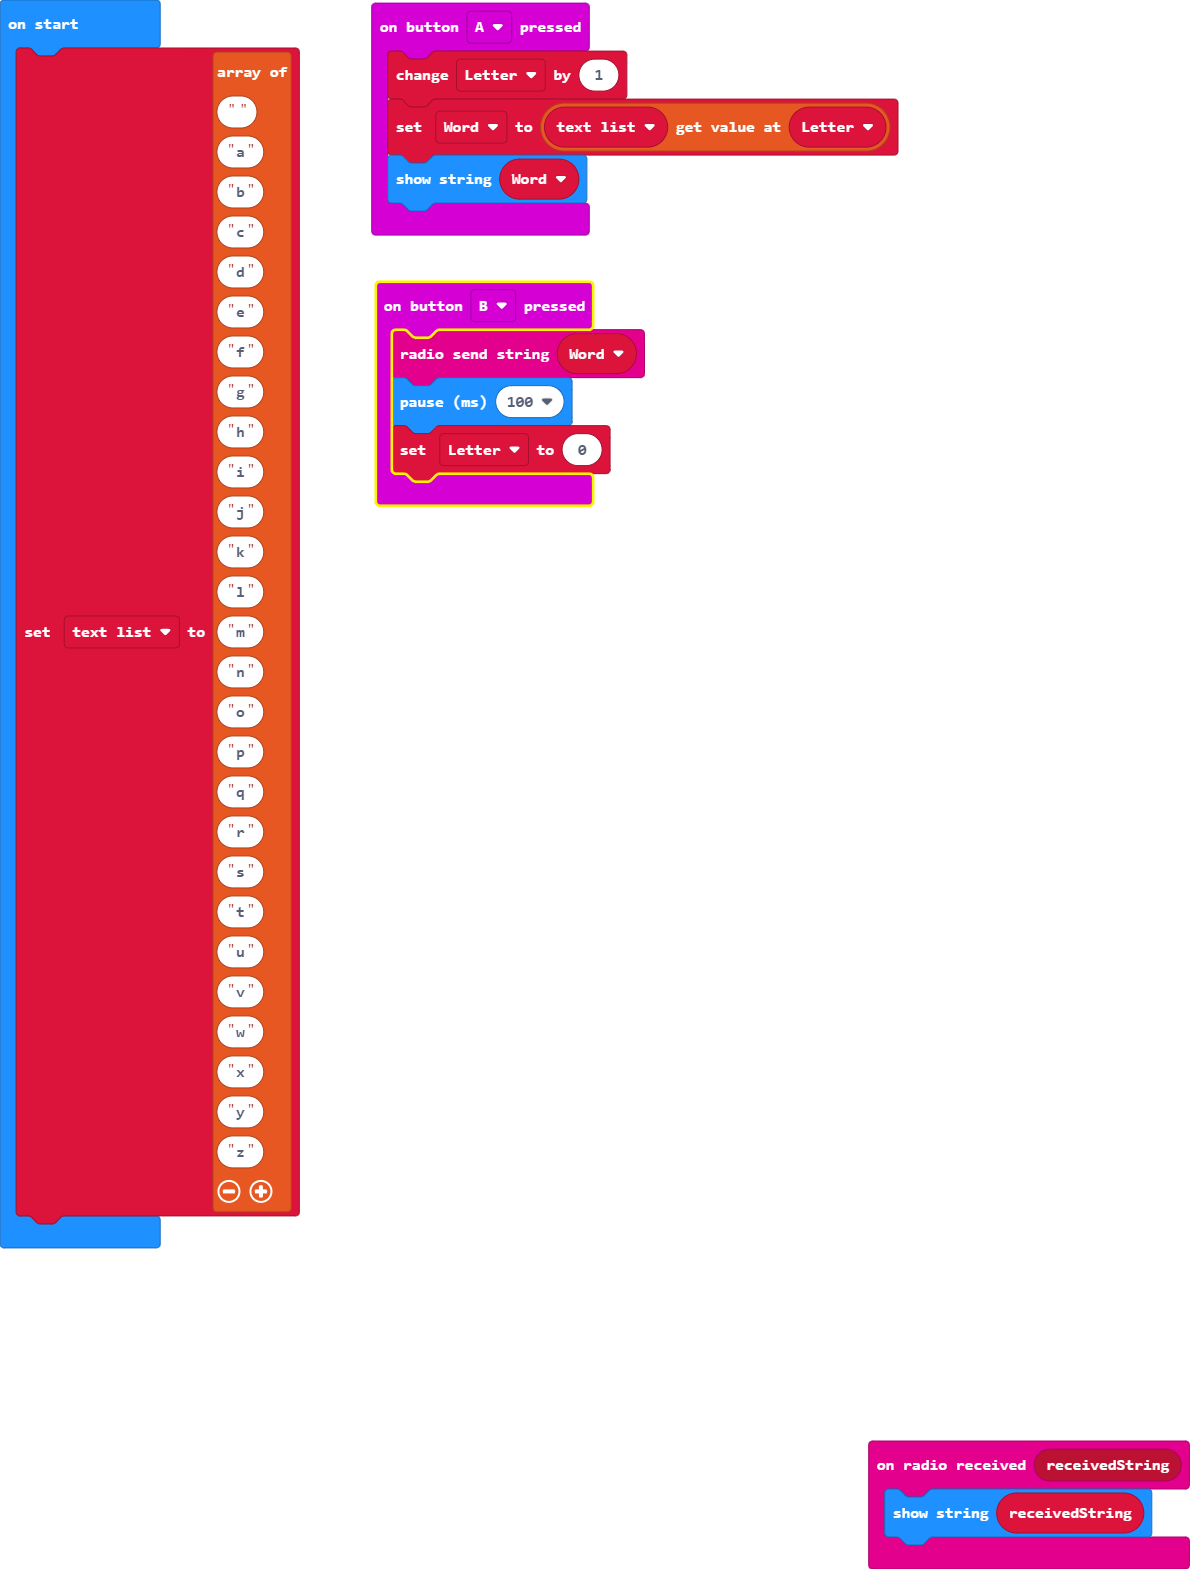
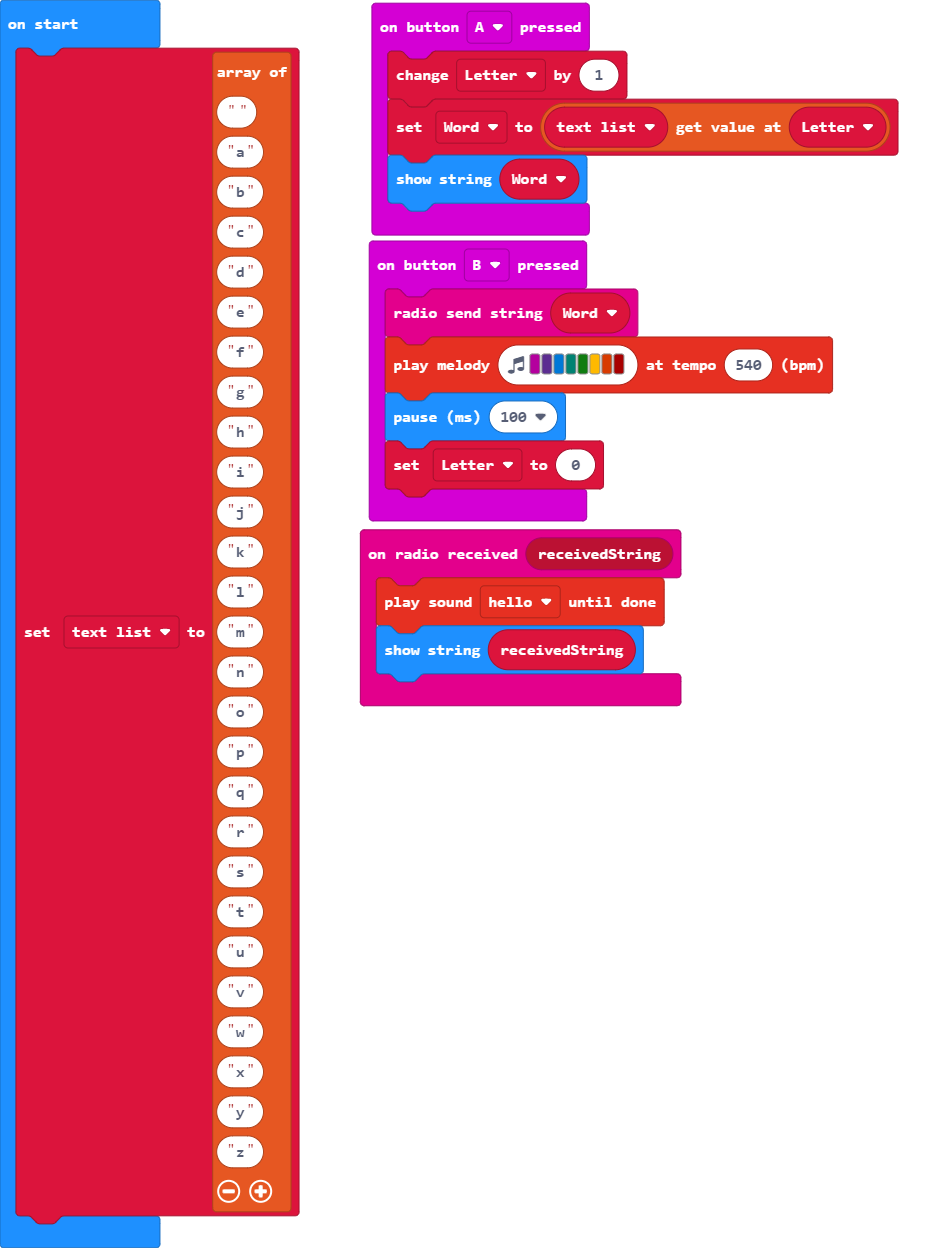
New sounds for notifications

diff --git a/main.ts b/main.ts
@@ -4,10 +4,12 @@ input.onButtonPressed(Button.A, function () {
     basic.showString("" + (Word))
 })
 radio.onReceivedString(function (receivedString) {
+    soundExpression.hello.playUntilDone()
     basic.showString(receivedString)
 })
 input.onButtonPressed(Button.B, function () {
     radio.sendString("" + (Word))
+    music.playMelody("C D E F G A B C5 ", 540)
     basic.pause(100)
     Letter = 0
 })
